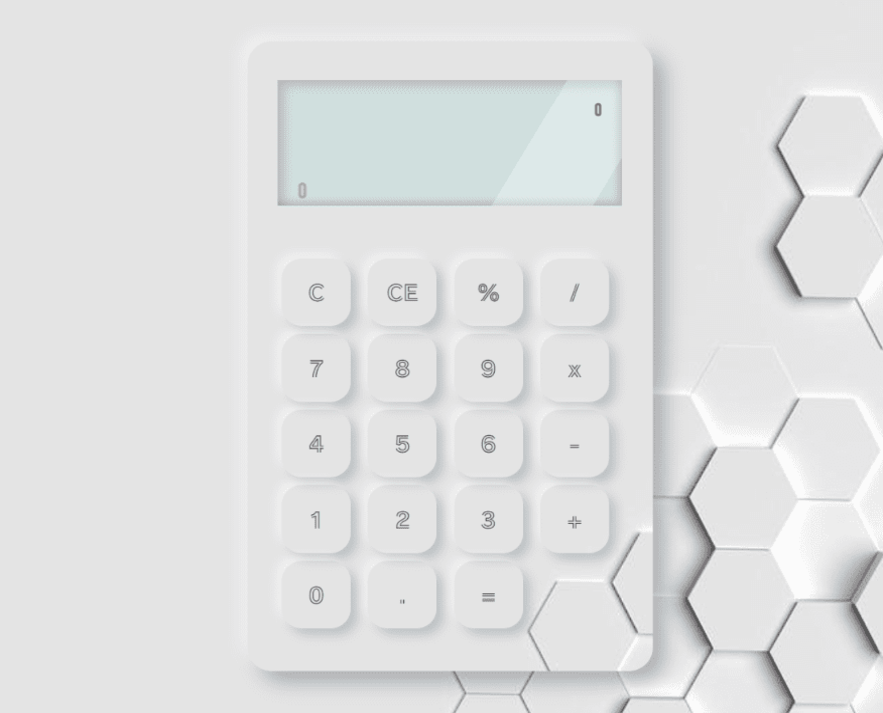
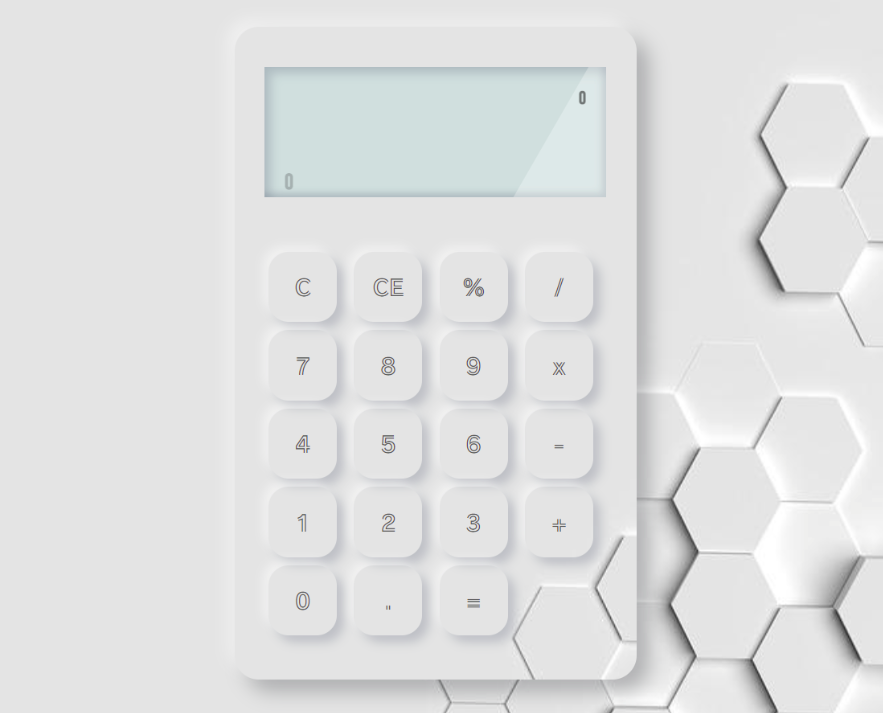
fixed all animation issues except co-op

diff --git a/frontend/src/components/portfolio/Portfolio.js b/frontend/src/components/portfolio/Portfolio.js
@@ -70,7 +70,7 @@ const video3 =  'https://dagogobucket.s3.eu-west-2.amazonaws.com/calc3.mp4'
 
 
 const [transClass,setTransClass] = useState(false);
-const [changeImage,setChangeImage] = useState(IMG21)
+const [changeImage,setChangeImage] = useState(IMG22)
 const [changeBw,setChangeBw] = useState(IMG31)
  /*const video3Ref = useRef('')
   const video2Ref = useRef('')
@@ -237,11 +237,11 @@ const [changeBw,setChangeBw] = useState(IMG31)
          },700)
 
          setTimeout(function(){
-          setChangeImage(IMG21)
+          setChangeImage(IMG22)
          },800)
 
          setTimeout(function(){
-          setChangeImage(IMG21)
+          setChangeImage(IMG22)
          },900)
       }
       
